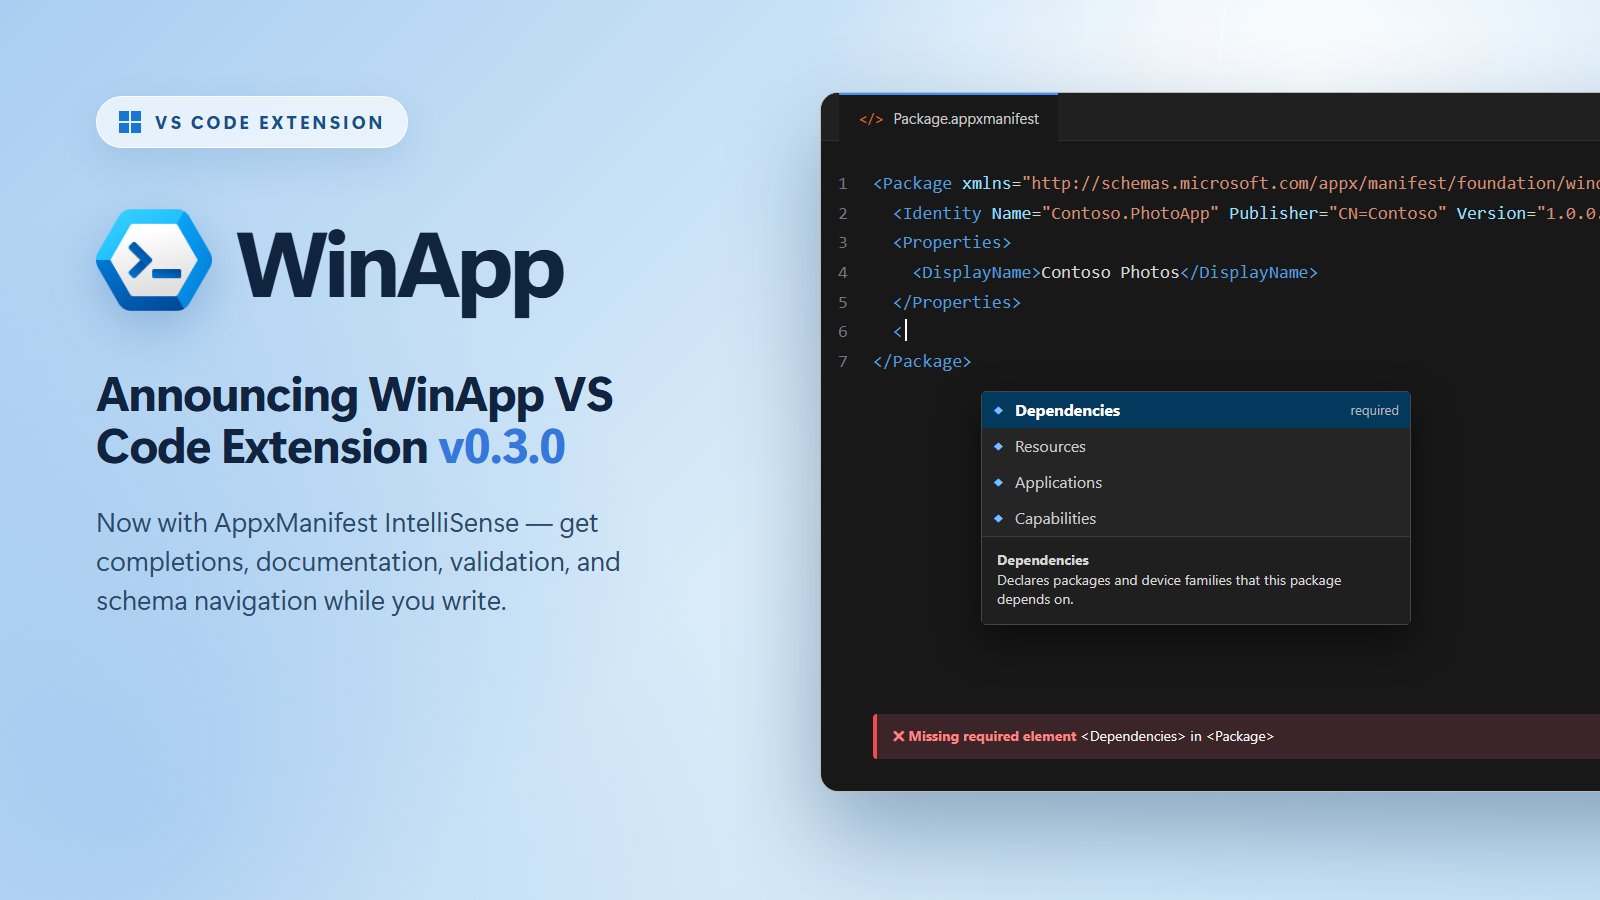
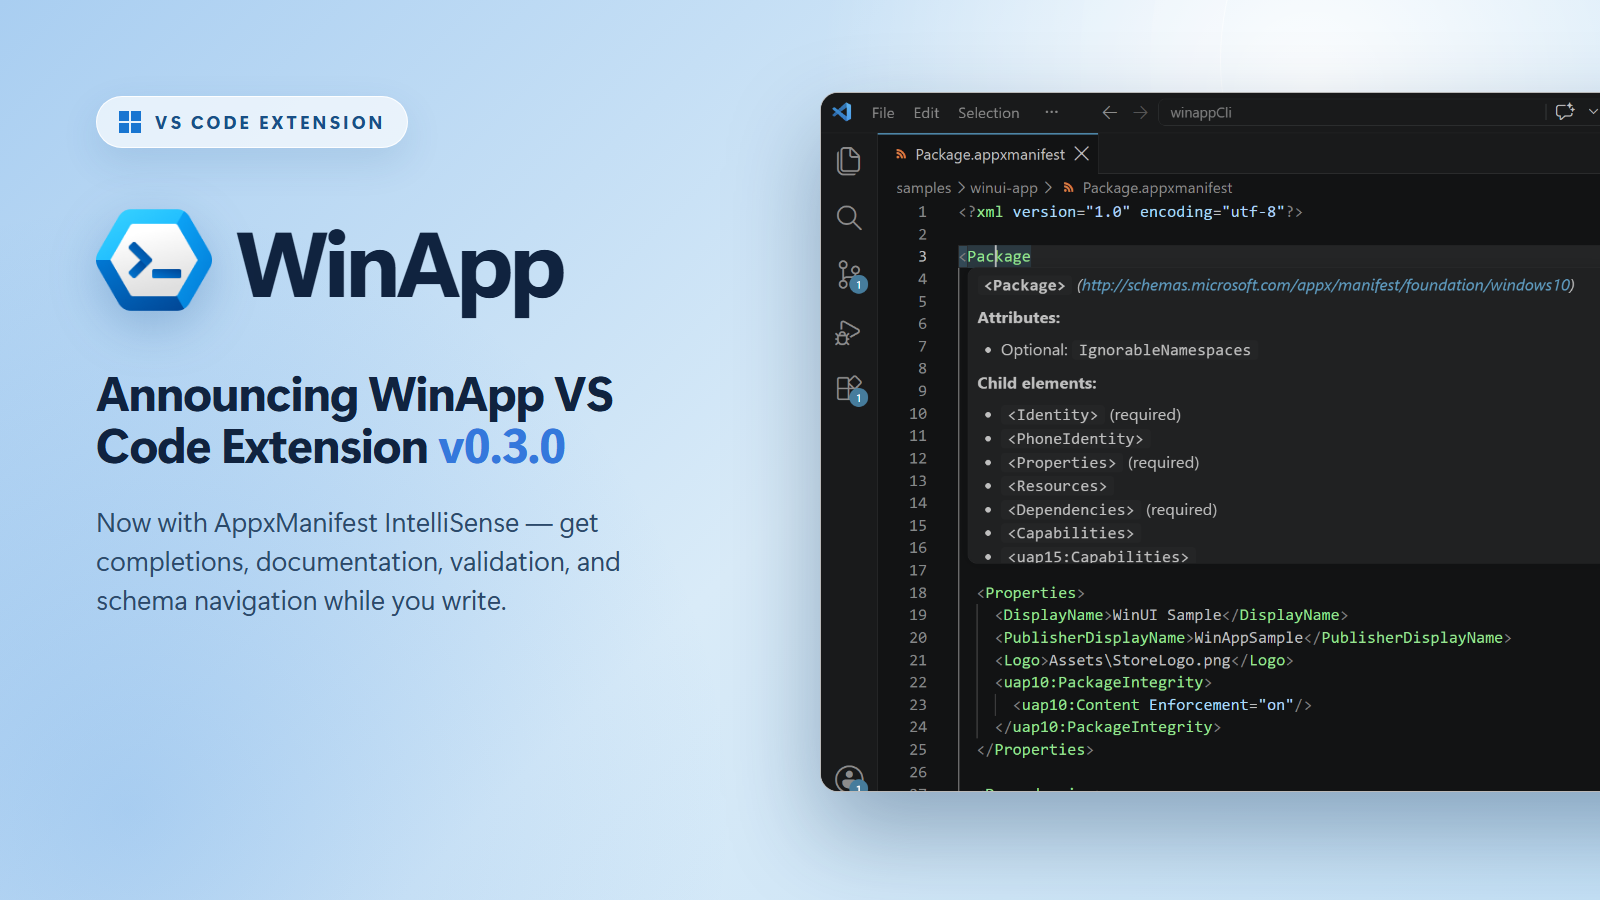
docs: use real VS Code screenshot in v0.3.0 blog header image
Copilot-Session: 1967af9b-6157-43a5-8671-53084e5df79d

Changed region(s): [[0.5, 0.0933, 1.0, 0.8711]]

diff --git a/images/blog-v0.3.0/header.html b/images/blog-v0.3.0/header.html
@@ -107,6 +107,13 @@
       border-radius: 18px;
       box-shadow: 0 40px 90px rgba(14,48,86,.35);
     }
+    .editor img {
+      display: block;
+      width: 1180px;
+      height: auto;
+      object-fit: cover;
+      object-position: left top;
+    }
     .titlebar {
       display: flex;
       align-items: center;
@@ -206,24 +213,7 @@
     </section>
 
     <section class="editor" aria-label="AppxManifest IntelliSense screenshot">
-      <div class="titlebar">
-        <div class="tab"><span style="color:#e37933">&lt;/&gt;</span> Package.appxmanifest</div>
-      </div>
-      <div class="xml"><span class="ln">1</span><span class="tag">&lt;Package</span> <span class="attr">xmlns</span>=<span class="str">"http://schemas.microsoft.com/appx/manifest/foundation/windows10"</span><span class="tag">&gt;</span>
-<span class="ln">2</span>  <span class="tag">&lt;Identity</span> <span class="attr">Name</span>=<span class="str">"Contoso.PhotoApp"</span> <span class="attr">Publisher</span>=<span class="str">"CN=Contoso"</span> <span class="attr">Version</span>=<span class="str">"1.0.0.0"</span> <span class="tag">/&gt;</span>
-<span class="ln">3</span>  <span class="tag">&lt;Properties&gt;</span>
-<span class="ln">4</span>    <span class="tag">&lt;DisplayName&gt;</span>Contoso Photos<span class="tag">&lt;/DisplayName&gt;</span>
-<span class="ln">5</span>  <span class="tag">&lt;/Properties&gt;</span>
-<span class="ln">6</span>  <span class="tag">&lt;</span><span class="cursor"></span>
-<span class="ln">7</span><span class="tag">&lt;/Package&gt;</span></div>
-      <div class="suggest">
-        <div class="suggest-row active"><span class="cube">&#9670;</span><b>Dependencies</b><span class="required">required</span></div>
-        <div class="suggest-row"><span class="cube">&#9670;</span>Resources</div>
-        <div class="suggest-row"><span class="cube">&#9670;</span>Applications</div>
-        <div class="suggest-row"><span class="cube">&#9670;</span>Capabilities</div>
-        <div class="doc"><b>Dependencies</b><br>Declares packages and device families that this package depends on.</div>
-      </div>
-      <div class="problem"><b>&#10006; Missing required element</b> &lt;Dependencies&gt; in &lt;Package&gt;</div>
+      <img src="intellisense-editor.png" alt="">
     </section>
   </main>
 </body>
